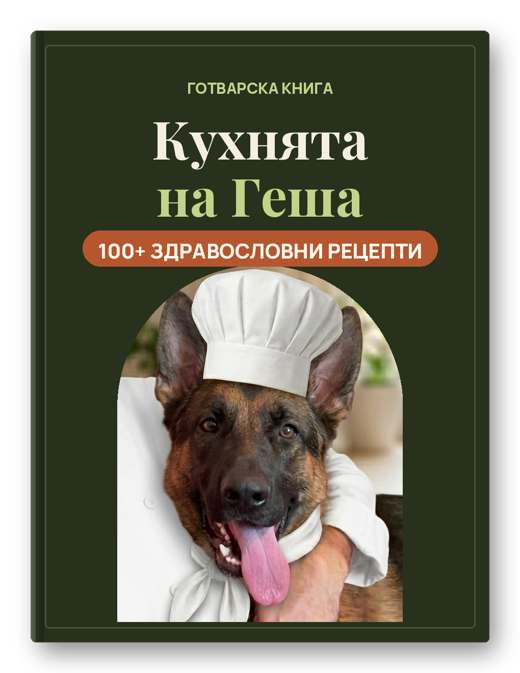
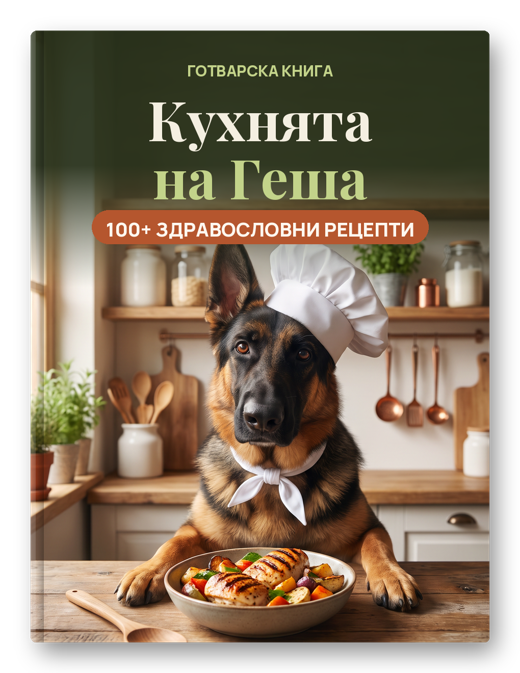
New Homie chef book cover; content first, price after the video on the landing
Claude-Session: https://claude.ai/code/session_01SzKh2J7H7fcAom4pmKcnPD

diff --git a/app/page.tsx b/app/page.tsx
@@ -172,31 +172,6 @@ export default async function LandingPage() {
               <br />
               Не само за фитнес маниаци.
             </p>
-            <div className="hero-actions">
-              <CheckoutButton kind="book" className="btn btn-cream" id="hero-cta" source="горе">
-                Купи книгата за 47 €
-              </CheckoutButton>
-              <a href="#vatre" className="btn btn-outline-cream">
-                Какво има вътре ↓
-              </a>
-            </div>
-            <PayBadges dark />
-            <div className="hero-bonus">
-              <span aria-hidden="true">🎁</span>
-              <span>
-                {first ? (
-                  <>
-                    <b>Бонус за първите {FIRST_BUYERS} закупили: 3 месеца нови рецепти безплатно</b>
-                    По 2–4 нови рецепти всяка седмица.
-                  </>
-                ) : (
-                  <>
-                    <b>Бонус: 1 месец нови рецепти безплатно</b>
-                    По 2–4 нови рецепти всяка седмица.
-                  </>
-                )}
-              </span>
-            </div>
           </div>
         </section>
       </div>
@@ -496,7 +471,7 @@ export default async function LandingPage() {
         </div>
       </div>
 
-      <StickyBuy note={first ? `+ 3 месеца нови рецепти за първите ${FIRST_BUYERS}` : "+ 1 месец нови рецепти безплатно"} />
+      <StickyBuy afterPx={2100} note={first ? `+ 3 месеца нови рецепти за първите ${FIRST_BUYERS}` : "+ 1 месец нови рецепти безплатно"} />
     </>
   );
 }

diff --git a/app/globals.css b/app/globals.css
@@ -5329,9 +5329,9 @@ section.value-sec {
 /* book cover with Homie */
 .value-cover {
   flex: 0 0 auto;
-  width: 64px;
+  width: 82px;
   height: auto;
-  margin: -26px 0 -8px -4px;
+  margin: -44px 0 -10px -6px;
   transform: rotate(-4deg);
 }
 .value-price {
@@ -5356,4 +5356,16 @@ html {
 }
 #vatre {
   scroll-margin-top: 12px;
+}
+@media (max-width: 560px) {
+  /* phone: cover + price on top, a full-width buy button under them */
+  .value-buy {
+    flex-wrap: wrap;
+    row-gap: 14px;
+    margin-top: 34px;
+  }
+  .value-btn {
+    flex: 1 0 100%;
+    text-align: center;
+  }
 }

diff --git a/components/ValueStack.tsx b/components/ValueStack.tsx
@@ -10,7 +10,7 @@ import { PayBadges } from "@/components/PayBadges";
 export function ValueStack({
   bonusMonths,
   source,
-  title = "Всичко, което получаваш за 47 €",
+  title = "Какво получаваш",
 }: {
   bonusMonths: 3 | 1;
   source: string;
